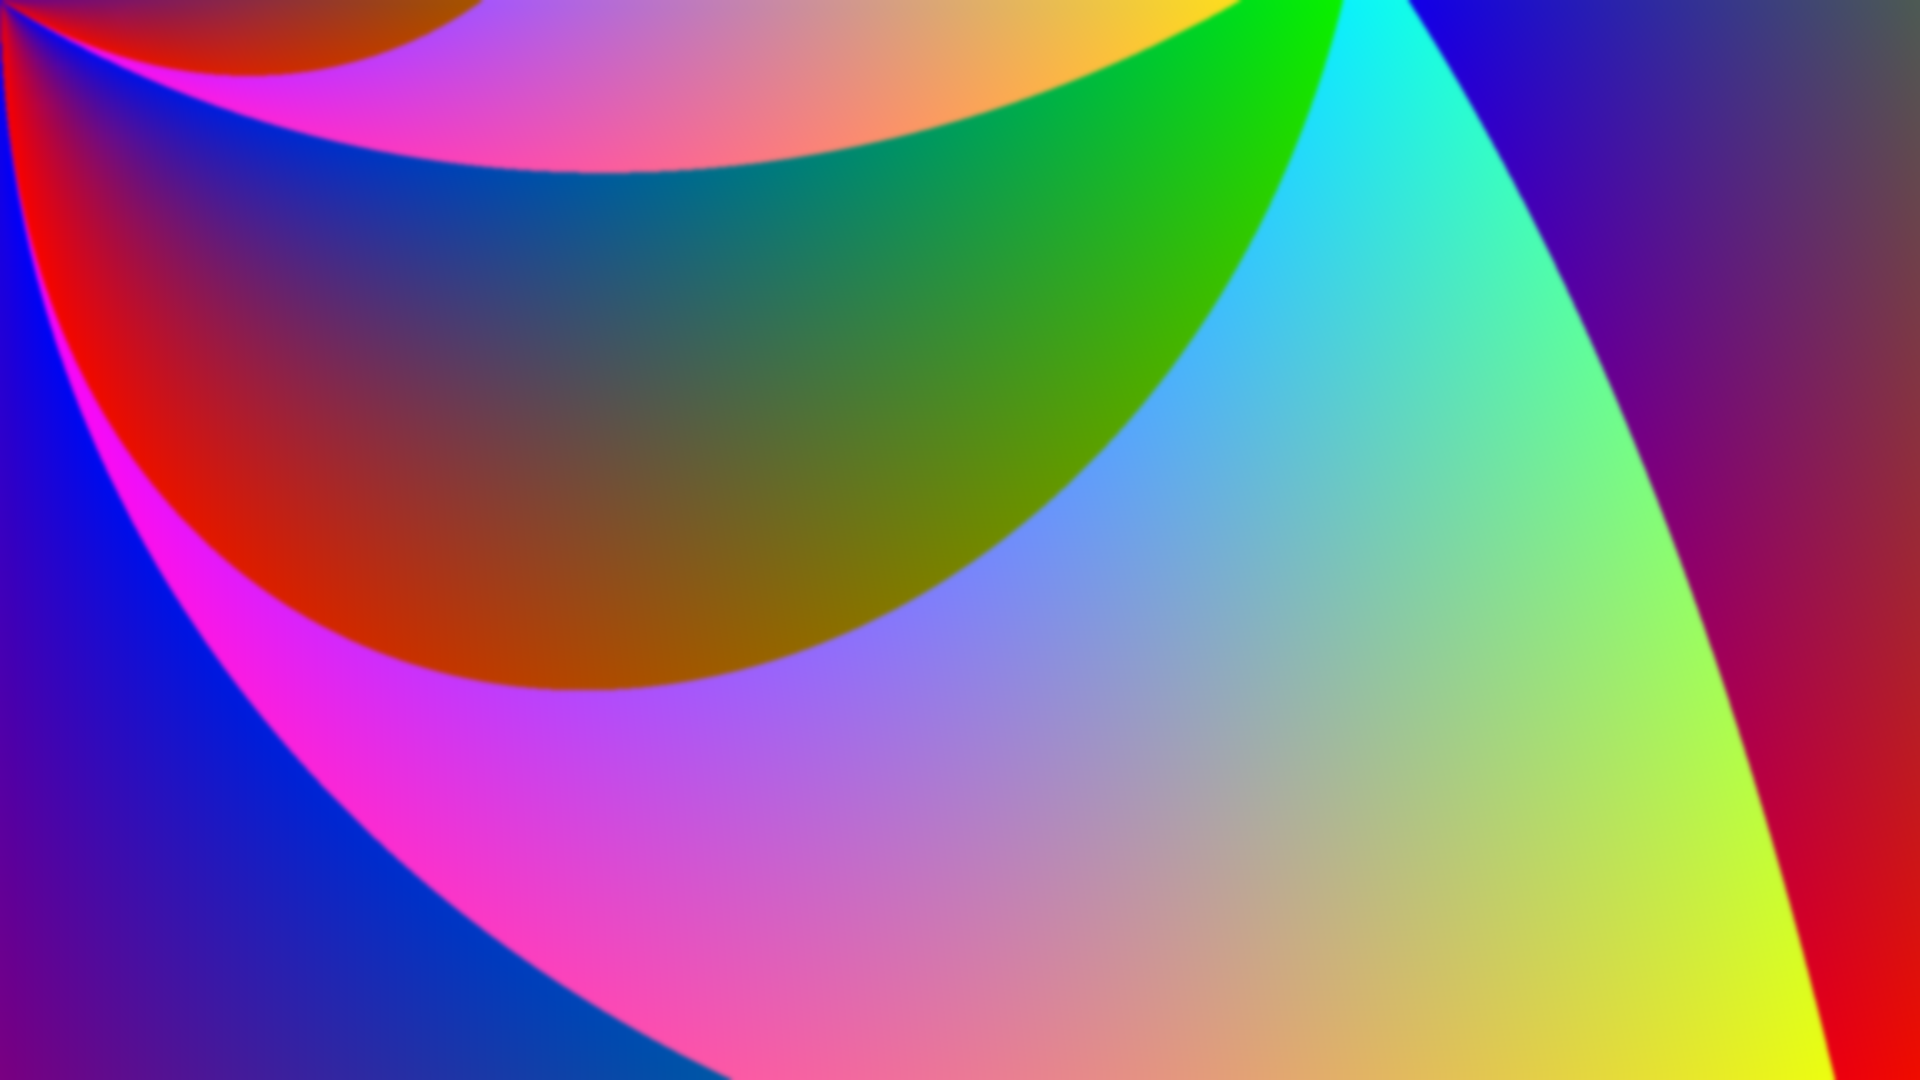
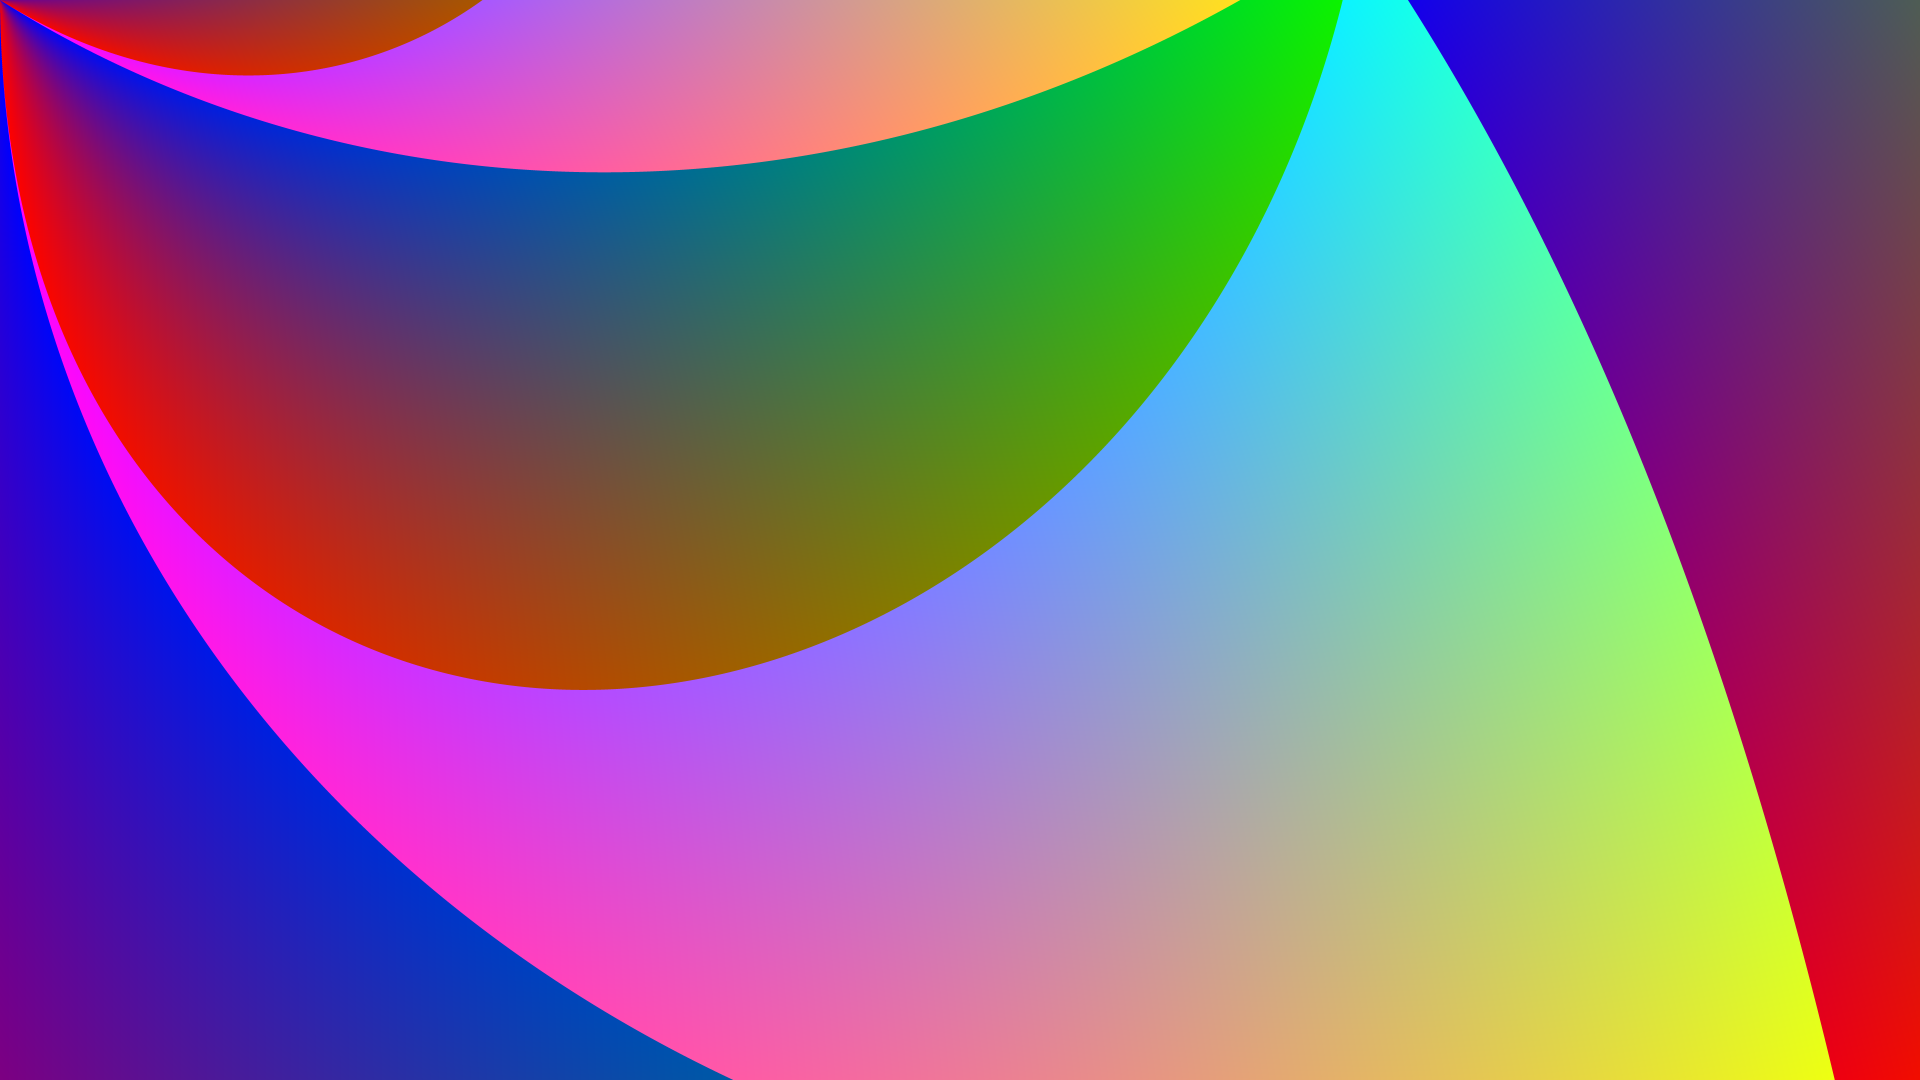
Add SSAA to examples.

diff --git a/examples/triangle.rs b/examples/triangle.rs
@@ -4,11 +4,17 @@ extern crate rgfx;
 use rgfx::draw;
 use rgfx::format::*;
 use rgfx::image::*;
+use rgfx::transform;
 
 use std::fs::File;
 
+const WIDTH: usize = 600;
+const HEIGHT: usize = 400;
+const SSAA: usize = 8;
+
+
 pub fn main() {
-    let mut img = Image::new(1920, 1080);
+    let mut img = Image::new(SSAA*WIDTH, SSAA*HEIGHT);
     let w = img.get_width();
     let h = img.get_height();
 
@@ -19,7 +25,8 @@ pub fn main() {
     }
 
     draw::triangle(&mut img, Point{x: 0, y: 0}, Point{x: w, y: h/2},
-                   Point{x: w/2, y: h}, BLUE);
+                   Point{x: w/32, y: h}, BLUE);
+    transform::scale_down(&mut img, SSAA);
 
     let mut file = File::create("triangle.ppm").unwrap();
     write_ppm(&img, &mut file).unwrap();

diff --git a/examples/cool_curve.rs b/examples/cool_curve.rs
@@ -9,7 +9,7 @@ use std::fs::File;
 
 const WIDTH: usize = 1920;
 const HEIGHT: usize = 1080;
-const SMOOTH_FACTOR: u32 = 32;
+const SSAA: usize = 8;
 
 
 fn calc(rad: f32, ang: f32, _color: Color, _img: &Image) -> Color {
@@ -31,10 +31,10 @@ fn calc(rad: f32, ang: f32, _color: Color, _img: &Image) -> Color {
 
 
 pub fn main() {
-    let mut img = Image::new(WIDTH, HEIGHT);
+    let mut img = Image::new(SSAA*WIDTH, SSAA*HEIGHT);
 
     transform::map_polar(&mut img, calc);
-    transform::simple_blur(&mut img, SMOOTH_FACTOR);
+    transform::scale_down(&mut img, SSAA);
 
     let mut file = File::create("cool_curve.ppm").unwrap();
     write_ppm(&img, &mut file).unwrap();

diff --git a/examples/cool_curve_2.rs b/examples/cool_curve_2.rs
@@ -7,6 +7,10 @@ use rgfx::transform;
 
 use std::fs::File;
 
+const WIDTH: usize = 1920;
+const HEIGHT: usize = 1080;
+const SSAA: usize = 2;
+
 
 fn calc(rad: f32, ang: f32, _color: Color, _img: &Image) -> Color {
     let mut r = (ang - 0.4).max(0.0001);
@@ -27,9 +31,10 @@ fn calc(rad: f32, ang: f32, _color: Color, _img: &Image) -> Color {
 
 
 pub fn main() {
-    let mut img = Image::new(1920, 1080);
+    let mut img = Image::new(SSAA*WIDTH, SSAA*HEIGHT);
 
     transform::map_polar(&mut img, calc);
+    transform::scale_down(&mut img, SSAA);
 
     let mut file = File::create("cool_curve_2.ppm").unwrap();
     write_ppm(&img, &mut file).unwrap();

diff --git a/examples/circle.rs b/examples/circle.rs
@@ -4,11 +4,17 @@ extern crate rgfx;
 use rgfx::draw;
 use rgfx::format::*;
 use rgfx::image::*;
+use rgfx::transform;
 
 use std::fs::File;
 
+const WIDTH: usize = 1920;
+const HEIGHT: usize = 1080;
+const SSAA: usize = 8;
+
+
 pub fn main() {
-    let mut img = Image::new(1920, 1080);
+    let mut img = Image::new(SSAA*WIDTH, SSAA*HEIGHT);
     let w = img.get_width();
     let h = img.get_height();
 
@@ -19,6 +25,7 @@ pub fn main() {
     }
 
     draw::circle(&mut img, Point{x: w/2, y: h/2}, h/10, BLUE);
+    transform::scale_down(&mut img, SSAA);
 
     let mut file = File::create("circle.ppm").unwrap();
     write_ppm(&img, &mut file).unwrap();
